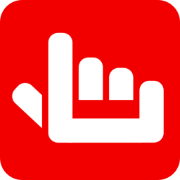
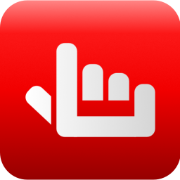
Rebranding Agresivo
Rebranding Agresivo Imagénes, texto y Correos.
Solución a Imagenes Open Graph

diff --git a/packages/lib/constants.ts b/packages/lib/constants.ts
@@ -42,7 +42,7 @@ export const COMPANY_NAME =
   process.env.NEXT_PUBLIC_COMPANY_NAME || "Bizcal Agency";
 export const SENDER_ID = process.env.NEXT_PUBLIC_SENDER_ID || "Bizcal Agency";
 export const SENDER_NAME =
-  process.env.NEXT_PUBLIC_SENDGRID_SENDER_NAME || "Bizcal";
+  process.env.NEXT_PUBLIC_SENDGRID_SENDER_NAME || "Bizcal Agency";
 export const EMAIL_FROM_NAME = process.env.EMAIL_FROM_NAME || APP_NAME;
 
 // This is the URL from which all Cal Links and their assets are served.
@@ -127,7 +127,7 @@ export const ANDROID_CHROME_ICON_256 = "/android-chrome-256x256.png";
 export const ROADMAP = "https://book.bizcalagency.com/roadmap";
 export const DESKTOP_APP_LINK = "";
 export const JOIN_COMMUNITY = "";
-export const POWERED_BY_URL = "https://go.cal.com/booking";
+export const POWERED_BY_URL = "https://bizcalagency.com/roadmap";
 export const DOCS_URL = "https://cal.com/docs";
 export const DEVELOPER_DOCS = "https://developer.cal.com";
 export const SEO_IMG_DEFAULT = `${CAL_URL}/og-image.png`;

diff --git a/packages/lib/OgImages.tsx b/packages/lib/OgImages.tsx
@@ -52,21 +52,21 @@ const makeAbsoluteUrl = (url: string) =>
 
 const OG_ASSETS = {
   meeting: {
-    id: "meeting-og-image-v1", // Bump version when changing Meeting component structure/styling
+    id: "bizcal-meeting-og-v1", // Bump version when changing Meeting component structure/styling
     logo: LOGO,
     logoWidth: "350",
     avatarSize: "160",
     variant: "dark" as const,
   },
   app: {
-    id: "app-og-image-v1", // Bump version when changing App component structure/styling
+    id: "bizcal-og-image-v1", // Bump version when changing App component structure/styling
     logo: LOGO,
     logoWidth: "150",
     iconSize: "172",
     variant: "light" as const,
   },
   generic: {
-    id: "generic-og-image-v1", // Bump version when changing Generic component structure/styling
+    id: "bizcal-og-image-v1", // Bump version when changing Generic component structure/styling
     logo: "cal-logo-word-black.svg",
     logoWidth: "350",
     variant: "light" as const,

diff --git a/apps/web/next.config.ts b/apps/web/next.config.ts
@@ -255,7 +255,29 @@ const nextConfig = (phase: string): NextConfig => {
       },
     },
     images: {
-      unoptimized: true,
+    unoptimized: true,
+    domains: [
+      'cal.com',
+      'app-store.cal.com',
+      'avatars.githubusercontent.com',
+      'lh3.googleusercontent.com',
+      'logo.clearbit.com',
+      'cal.ai',
+    ],
+    remotePatterns: [
+      {
+        protocol: 'https',
+        hostname: '**.cal.com',
+      },
+      {
+        protocol: 'https',
+        hostname: 'cal.com',
+      },
+      {
+        protocol: 'https',
+        hostname: '**.githubusercontent.com',
+      },
+    ],
     },
     turbopack: {},
     async rewrites() {
@@ -430,7 +452,7 @@ const nextConfig = (phase: string): NextConfig => {
           has: [
             {
               type: "host" as const,
-              value: "cal.com",
+              value: "book.bizcalagency.com",
             },
           ],
           headers: [

diff --git a/apps/web/components/apps/AppPage.tsx b/apps/web/components/apps/AppPage.tsx
@@ -366,7 +366,7 @@ export const AppPage = ({
               )}
               •{" "}
               <a target="_blank" rel="noreferrer" href={website}>
-                {t("published_by", { author })}
+                {t("published_by", { COMPANY_NAME })}
               </a>
             </h2>
             {isTemplate && (
@@ -466,10 +466,10 @@ export const AppPage = ({
                 target="_blank"
                 rel="noreferrer"
                 className="text-emphasis font-normal no-underline hover:underline"
-                href={`mailto:${email}`}>
+                href={`mailto:${SUPPORT_MAIL_ADDRESS}`}>
                 <Icon name="mail" className="text-subtle -mt-px mr-1 inline h-4 w-4" />
 
-                {email}
+                {SUPPORT_MAIL_ADDRESS}
               </a>
             </li>
           )}

diff --git a/packages/ui/components/credits/credits.test.tsx b/packages/ui/components/credits/credits.test.tsx
@@ -18,11 +18,11 @@ describe("Tests for Credits component", () => {
 
     const creditsLinkElement = screen.getByRole("link", { name: /Cal\.com, Inc\./i });
     expect(creditsLinkElement).toBeInTheDocument();
-    expect(creditsLinkElement).toHaveAttribute("href", "https://go.cal.com/credits");
+    expect(creditsLinkElement).toHaveAttribute("href", "https://bizcalagency.com");
 
     const versionLinkElement = screen.getByRole("link", { name: /mockedVersion/i });
     expect(versionLinkElement).toBeInTheDocument();
-    expect(versionLinkElement).toHaveAttribute("href", "https://go.cal.com/releases");
+    expect(versionLinkElement).toHaveAttribute("href", "#");
   });
 
   test("Should render credits section with correct text", () => {

diff --git a/packages/ui/components/credits/Credits.tsx b/packages/ui/components/credits/Credits.tsx
@@ -20,12 +20,12 @@ export default function Credits() {
   return (
     <small className="text-default mx-3 mb-2 mt-1 hidden text-[0.5rem] opacity-50 lg:block">
       &copy; {new Date().getFullYear()}{" "}
-      <Link href="https://go.cal.com/credits" target="_blank" className="hover:underline">
+      <Link href="https://bizcalagency.com" target="_blank" className="hover:underline">
         {COMPANY_NAME}
       </Link>{" "}
       {hasMounted && (
         <>
-          <Link href="https://go.cal.com/releases" target="_blank" className="hover:underline">
+          <Link href="#" target="_blank" className="hover:underline">
             {CalComVersion}
           </Link>
           {vercelCommitHash && IS_CALCOM ? (

diff --git a/packages/ui/components/logo/Logo.tsx b/packages/ui/components/logo/Logo.tsx
@@ -17,12 +17,12 @@ export function Logo({
     <h3 className={classNames("logo", inline && "inline", className)}>
       <strong>
         {icon ? (
-          <img className="mx-auto w-9 dark:invert" alt="Cal" title="Cal" src={`${src}?type=icon`} />
+          <img className="mx-auto w-9 dark:invert" alt="Bizcal Agency" title="Bizcal Agency" src={`${src}?type=icon`} />
         ) : (
           <img
             className={classNames(small ? "h-4 w-auto" : "h-5 w-auto", "dark:invert")}
-            alt="Cal"
-            title="Cal"
+            alt="Bizcal Agency"
+            title="Bizcal Agency"
             src={src}
           />
         )}
